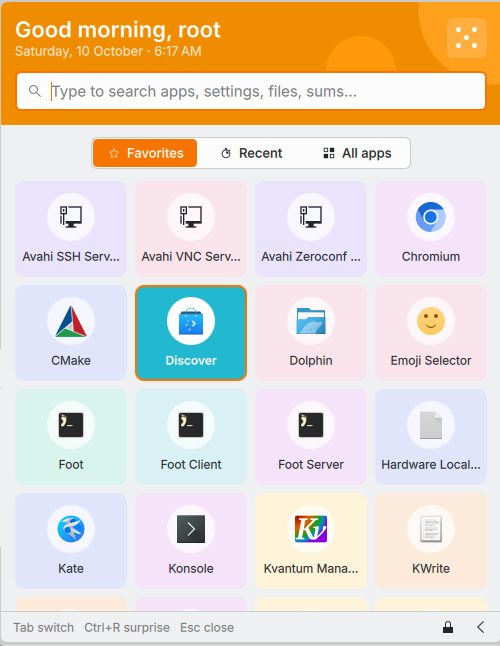
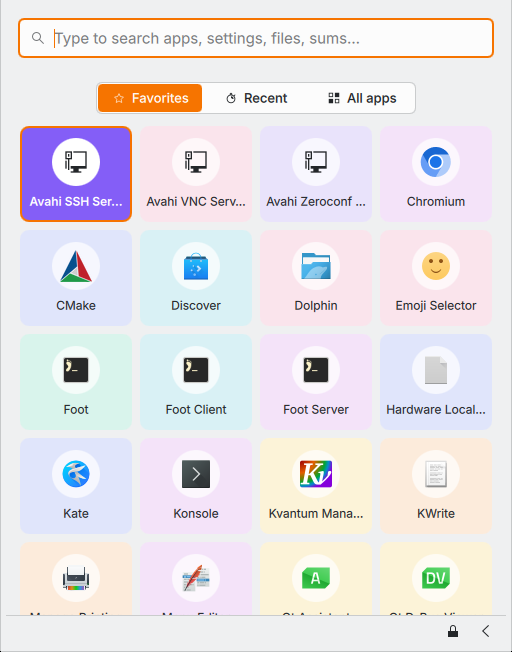
Menu: drop the coloured greeting band
Claude-Session: https://claude.ai/code/session_01FKKCgVnYysgPqYJdBpyrMf

diff --git a/kde/menu/package/contents/ui/MenuView.qml b/kde/menu/package/contents/ui/MenuView.qml
@@ -1,7 +1,6 @@
 /*
- * The popup. A colour band greets you by name and changes with the time of
- * day; favorites are a grid of colour tiles, all apps are grouped under
- * coloured letter badges.
+ * The popup. A search field on top; favorites are a grid of colour tiles,
+ * all apps are grouped under coloured letter badges.
  *
  * Still flatkit underneath: Inter, flat fills, 1px borders that become a 2px
  * accent ring on focus, a solid accent selection, and no animation, so the
@@ -13,7 +12,6 @@ import QtQuick.Controls as QQC2
 
 import org.kde.plasma.plasmoid
 import org.kde.kirigami as Kirigami
-import org.kde.coreaddons as KCoreAddons
 import org.kde.plasma.plasma5support as P5Support
 
 Item {
@@ -131,28 +129,6 @@ Item {
     readonly property real fontSize: 14 * px
     readonly property real smallSize: 12 * px
 
-    KCoreAddons.KUser { id: kuser }
-    readonly property string firstName: {
-        const full = (kuser.fullName || "").trim();
-        return full.length > 0 ? full.split(" ")[0] : kuser.loginName;
-    }
-
-    // The time of day sets the greeting and the band's colour.
-    property date now: new Date()
-    Timer {
-        interval: 30000
-        repeat: true
-        running: root.menuItem.expanded
-        triggeredOnStart: true
-        onTriggered: root.now = new Date()
-    }
-    readonly property int hour: now.getHours()
-    readonly property var mood: hour < 5 ? { greet: i18n("Up late"), color: "#3b3f8f" }
-        : hour < 12 ? { greet: i18n("Good morning"), color: "#f08c00" }
-        : hour < 17 ? { greet: i18n("Good afternoon"), color: "#1c7ed6" }
-        : hour < 21 ? { greet: i18n("Good evening"), color: "#7048e8" }
-        : { greet: i18n("Good night"), color: "#3b3f8f" }
-
     // 0 favorites, 1 recent, 2 all applications.
     property int tab: Plasmoid.configuration.startTab
     readonly property bool searching: search.text.length > 0
@@ -242,73 +218,27 @@ Item {
         anchors.fill: parent
         spacing: 0
 
-        // The band: greeting, date, and the search field sitting on it.
-        Rectangle {
+        // The search field at the top.
+        Item {
             Layout.fillWidth: true
-            implicitHeight: bandColumn.implicitHeight + 28 * root.px
-            color: root.mood.color
-            topLeftRadius: root.radius
-            topRightRadius: root.radius
-            clip: true
-
-            // A few flat circles for some shape, in the band's own colour.
-            Rectangle {
-                width: 150 * root.px; height: width; radius: width / 2
-                x: parent.width - width * 0.55; y: -width * 0.45
-                color: Qt.lighter(root.mood.color, 1.18)
-            }
-            Rectangle {
-                width: 70 * root.px; height: width; radius: width / 2
-                x: parent.width - 175 * root.px; y: 34 * root.px
-                color: Qt.lighter(root.mood.color, 1.1)
-            }
+            implicitHeight: bandColumn.implicitHeight + 24 * root.px
 
             ColumnLayout {
                 id: bandColumn
                 anchors.left: parent.left
                 anchors.right: parent.right
                 anchors.top: parent.top
-                anchors.margins: 14 * root.px
-                spacing: 2 * root.px
-
-                RowLayout {
-                    Layout.fillWidth: true
-                    spacing: 8 * root.px
-
-                    ColumnLayout {
-                        Layout.fillWidth: true
-                        spacing: 0
-
-                        Text {
-                            Layout.fillWidth: true
-                            text: root.firstName.length > 0 ? root.mood.greet + ", " + root.firstName
-                                : root.mood.greet
-                            color: "white"
-                            font.family: root.fontFamily
-                            font.pixelSize: 22 * root.px
-                            font.weight: Font.DemiBold
-                            elide: Text.ElideRight
-                        }
-
-                        Text {
-                            text: Qt.formatDateTime(root.now, "dddd, d MMMM · ") + Qt.formatTime(root.now, Qt.locale().timeFormat(Locale.ShortFormat))
-                            color: Qt.rgba(1, 1, 1, 0.85)
-                            font.family: root.fontFamily
-                            font.pixelSize: 13 * root.px
-                        }
-                    }
-
-                }
+                anchors.margins: 12 * root.px
+                spacing: 0
 
                 // Search field: KitTextField, a size up.
                 Rectangle {
                     Layout.fillWidth: true
-                    Layout.topMargin: 10 * root.px
                     implicitHeight: Math.round(40 * root.px)
                     radius: root.radius
                     color: root.cSurface
-                    border.width: search.activeFocus ? 2 : 0
-                    border.color: root.cFocus
+                    border.width: search.activeFocus ? 2 : 1
+                    border.color: search.activeFocus ? root.cFocus : root.cBorder
 
                     RowLayout {
                         anchors.fill: parent

diff --git a/kde/menu/README.md b/kde/menu/README.md
@@ -5,7 +5,6 @@ Kickoff that opens from the panel or the Meta key.
 
 ![Flatkit Menu](preview.png)
 
-- A colour band that greets you by name and changes with the time of day
   (amber mornings, blue afternoons, violet evenings, indigo nights)
 - Favorites as a grid of colour tiles; every app keeps its own colour
 - All apps grouped under coloured letter badges
